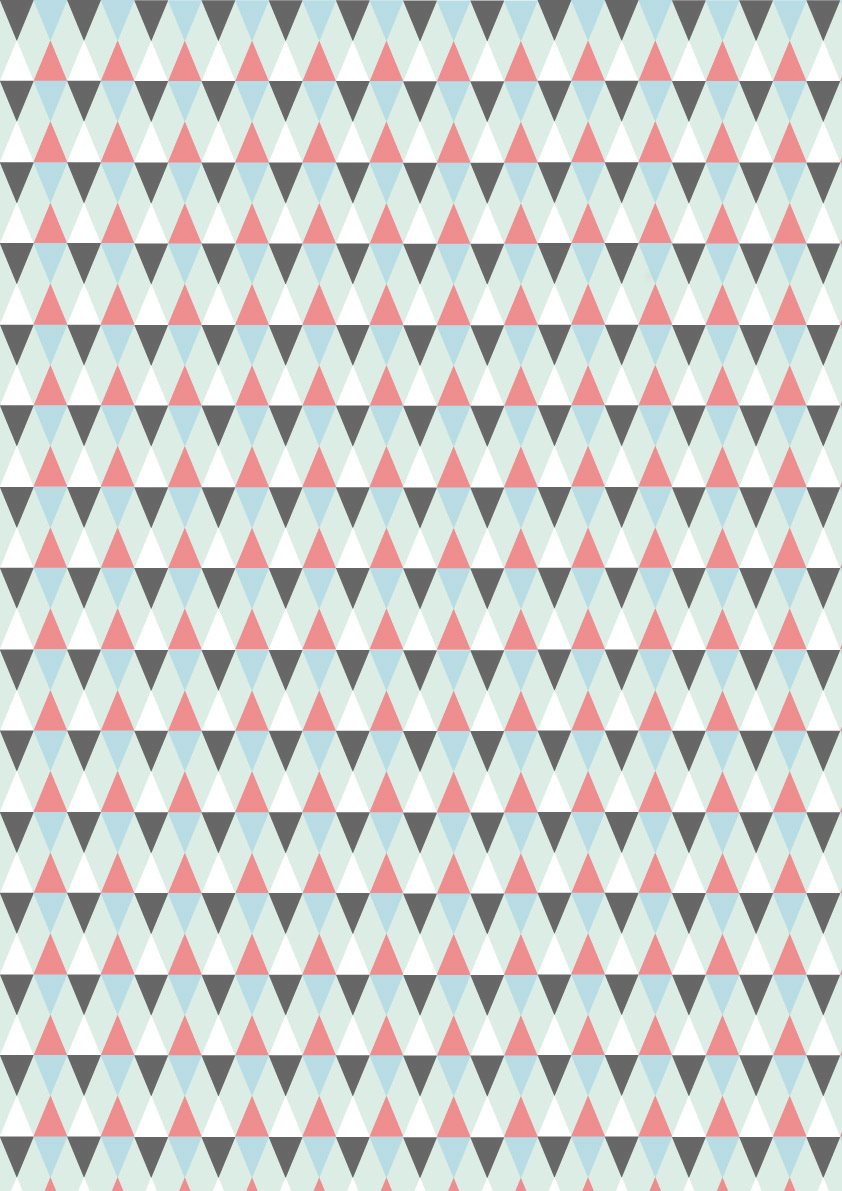
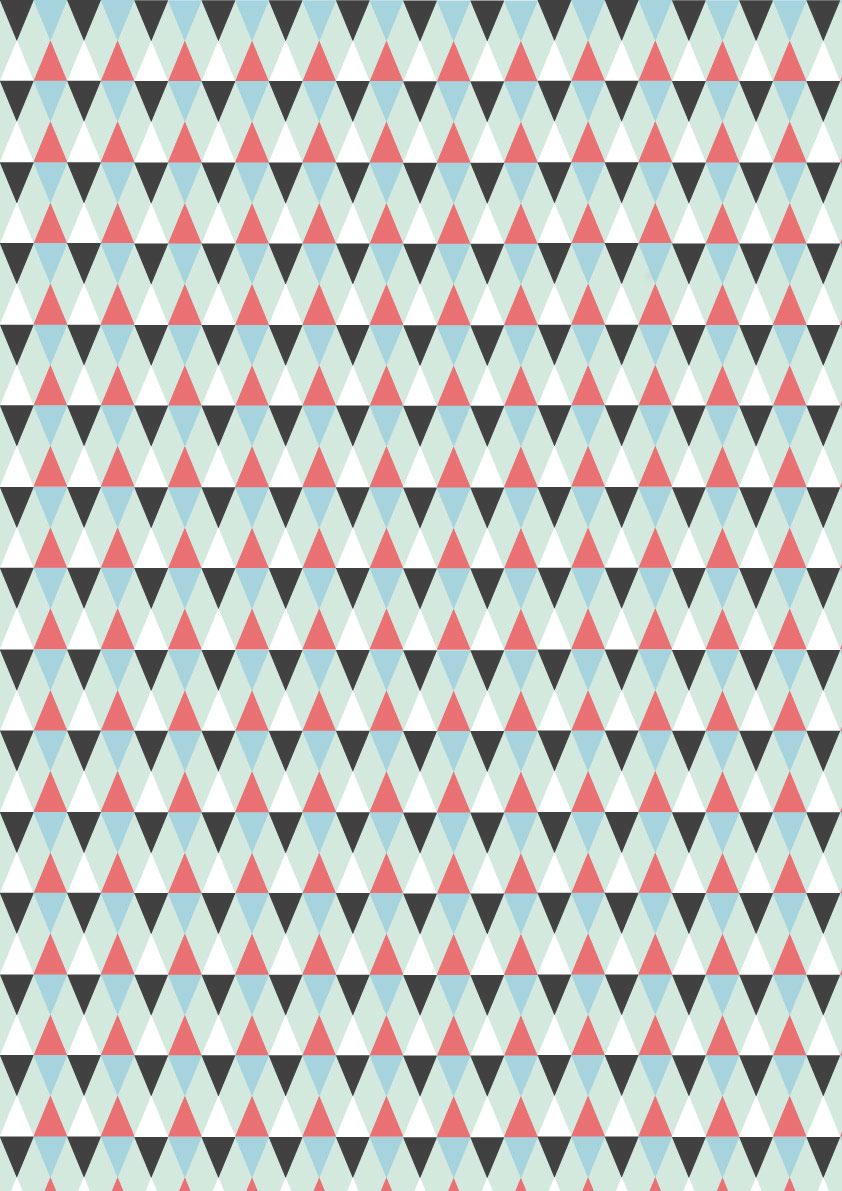
style?

diff --git a/app/assets/stylesheets/application.css.scss b/app/assets/stylesheets/application.css.scss
@@ -13,10 +13,17 @@
  */
 
 body{
-  background-image:url('fond-alem1.jpg')
-  //background-image:url('fond-alem2.png')
+  //background-image:url('fond-alem1.jpg')
+  background-image:url('fond-alem2.png')
+}
+
+#main-container{
+  margin-top:50px;
+  width:80%;
+  background-color:white;
 }
 
 main{
-  background-color:white;
+  padding-right:30%;
 }
+
